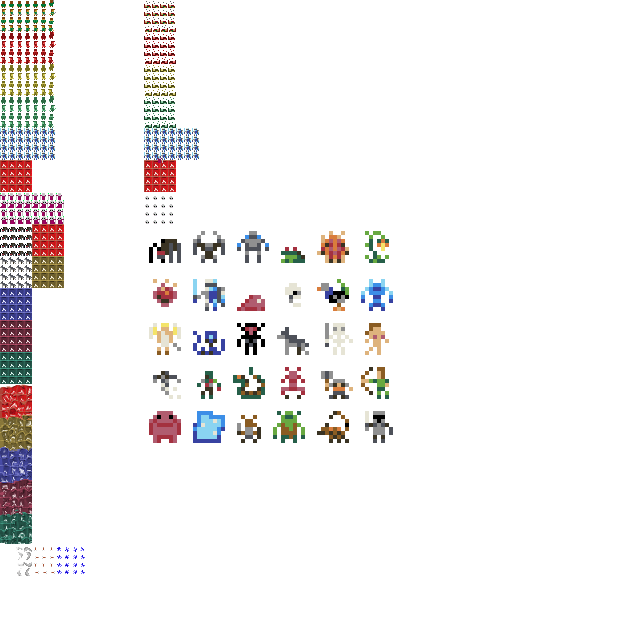
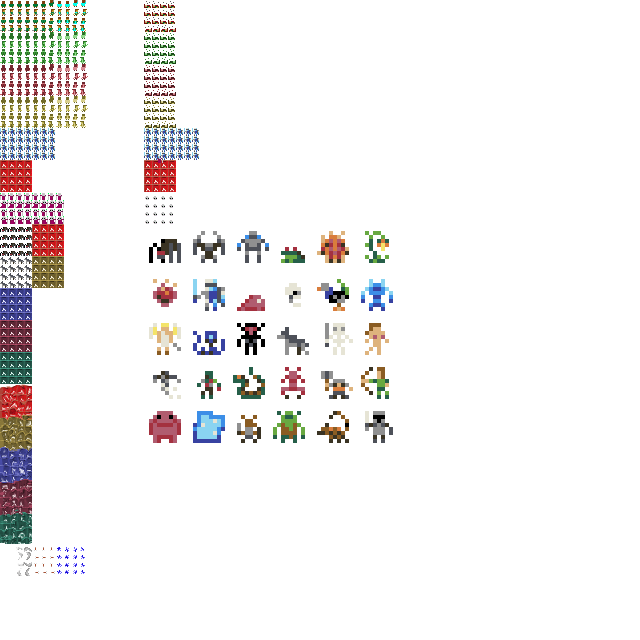
new anims and waits for ranged weapons

Changed region(s): [[0.0, 0.0, 0.1562, 0.2188], [0.2188, 0.0312, 0.2812, 0.2188]]

diff --git a/combat.js b/combat.js
@@ -109,7 +109,7 @@ function processActiveAttacks(){
         for (var attrname in situationalData) { RawAttackData[attrname] = situationalData[attrname]; }
         console.log(RawAttackData)
         coredata.chunks[attackData.chunk].attacks.push(RawAttackData);
-        at[inst].state = 13 /// Keep for now but eventaully this will be per weapon.
+        at[inst].state = attackData.ownerStartState /// Keep for now but eventaully this will be per weapon.
 
       };
       delete activeAttacksQueue[inst];
